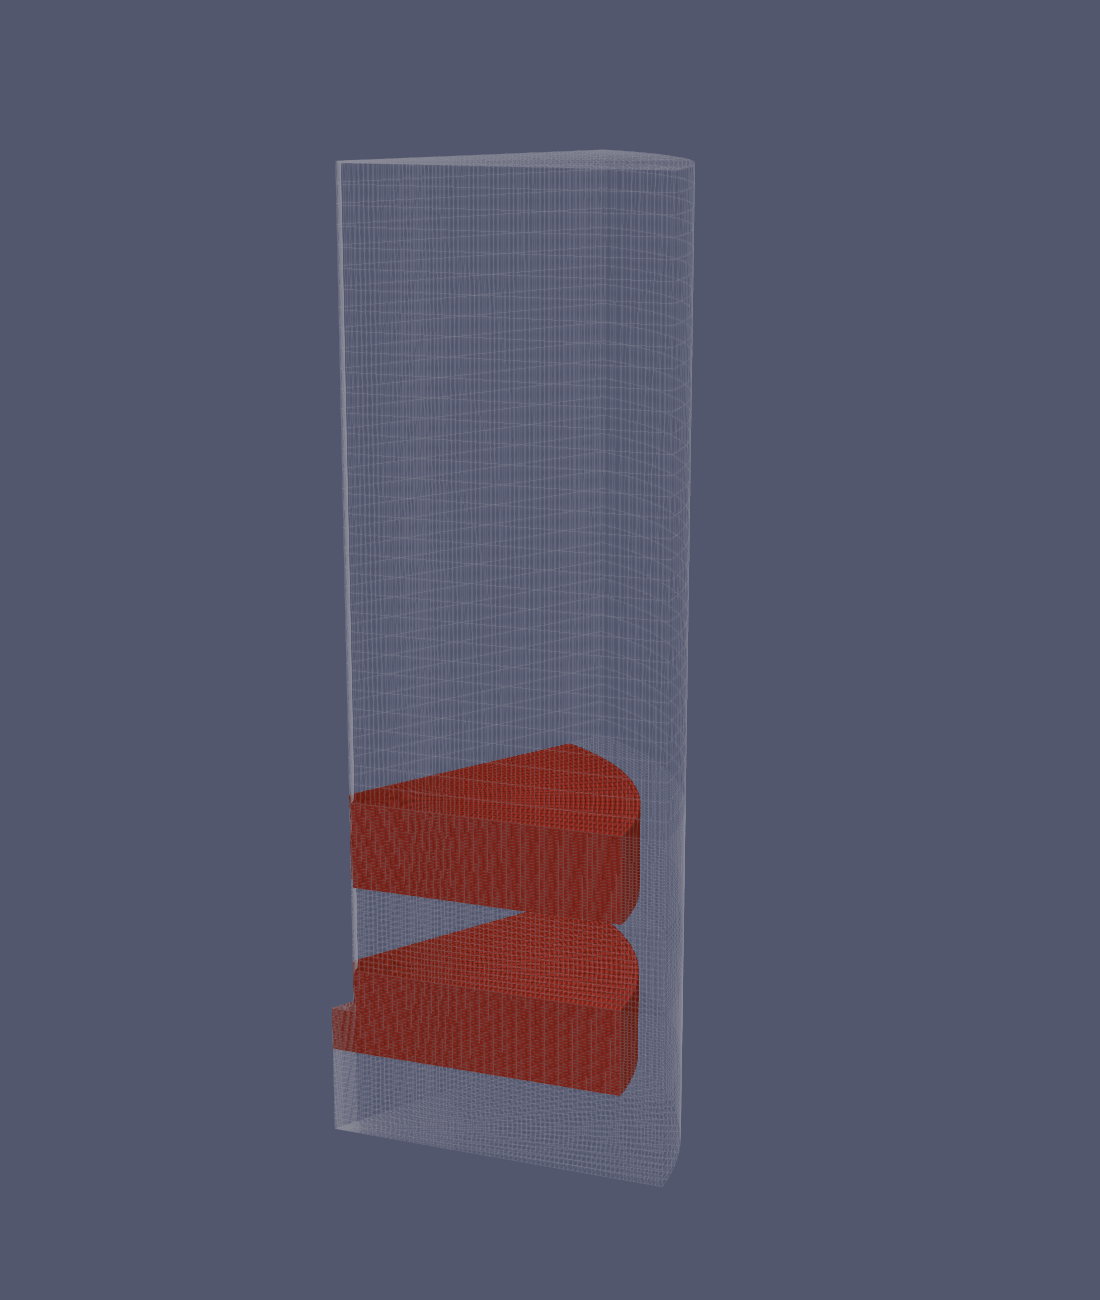
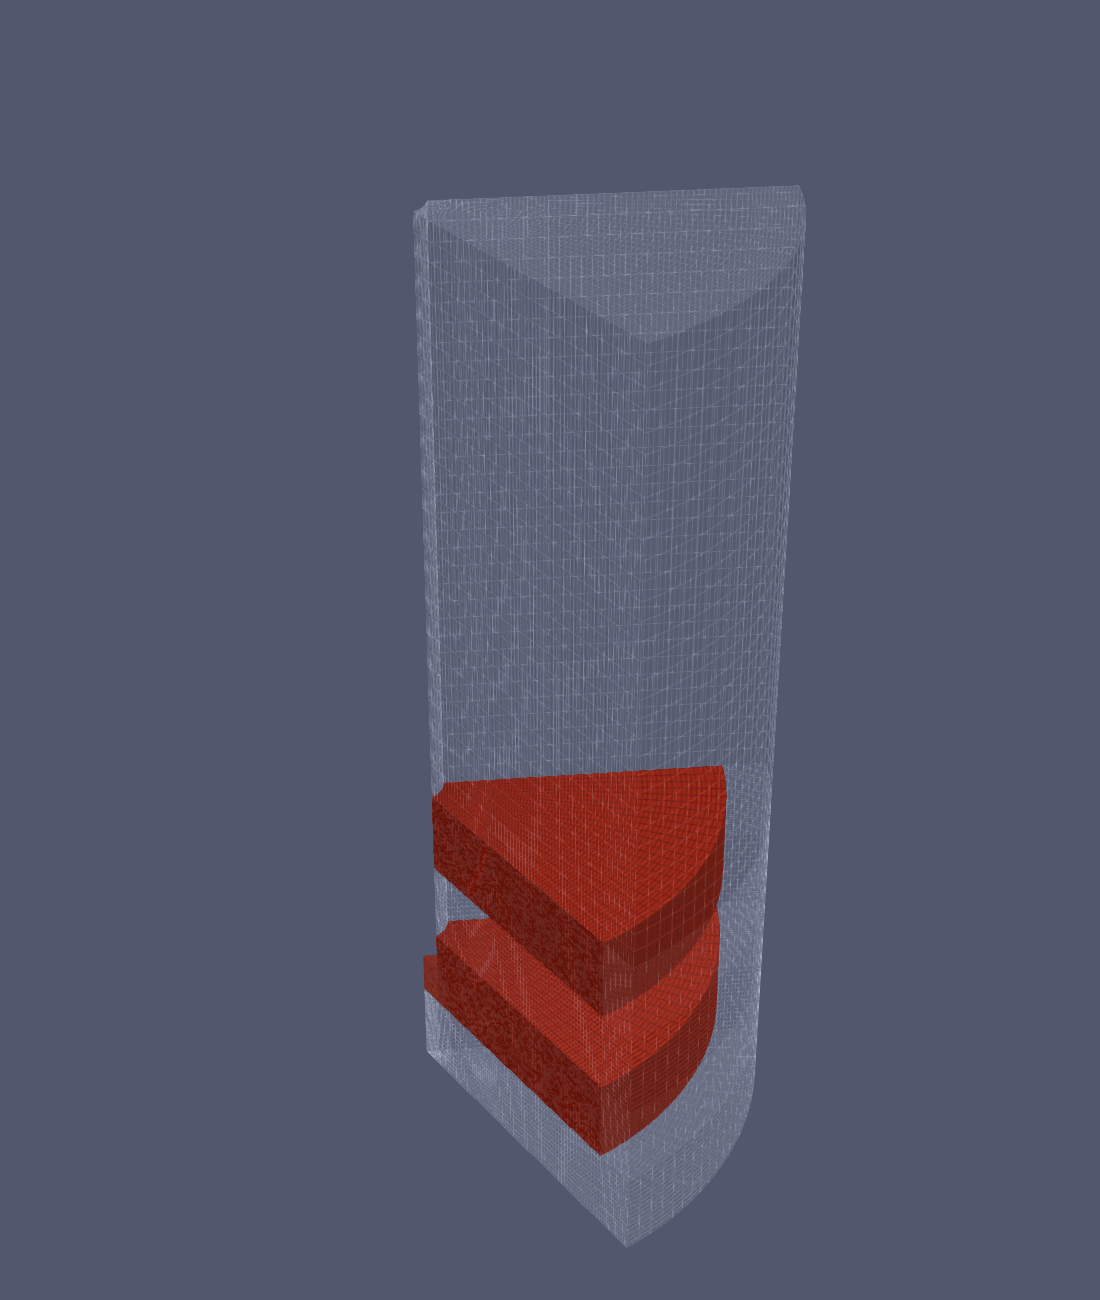
Add mesh-deformation animation GIF to stirrer doc
Renders t=0.1-1.0 of the re-run master_curve_of13 case (fixed wing
zones) with pvpython: red wing patches plus the z=0.015 horizontal
mesh slice following the blade displacement. Also refreshes the stale
Aug 5 renders kept inside the data case img/ folders with the fixed-
mesh versions.

Changed region(s): [[0.2782, 0.1846, 0.7109, 0.9538], [0.3091, 0.0923, 0.7418, 0.2769], [0.6182, 0.4615, 0.6491, 0.4923]]

diff --git a/docs/Track3/slides.md b/docs/Track3/slides.md
@@ -1634,6 +1634,13 @@ checkMesh -latestTime > log.checkMesh 2>&1
 
 - 羽根表面の変位に合わせて、周囲のメッシュも破綻せず滑らかに追従変形していることを確認する。
 
+t=0.1〜1の変形過程をアニメーションにすると以下のようになる（赤: 羽根パッチ、グレー: 羽根中央高さ z=0.015 の水平断面メッシュ）。羽根がy方向へ曲線状に変位し、周囲のメッシュが滑らかに追従している。
+
+
+---
+
+![羽根の変位にメッシュが追従変形するアニメーション](img/002_stirrer/ani_deform.gif)
+
 ---
 
 # 003 Heatsink: SALOMEでヒートシンクの熱流体・固体連成メッシュを作る

diff --git a/docs/Track3/002_stirrer.md b/docs/Track3/002_stirrer.md
@@ -547,3 +547,7 @@ checkMesh -latestTime > log.checkMesh 2>&1
 ![羽根の変位に追従して変形したメッシュ（t=1）](img/002_stirrer/deformed_result.png)
 
 - 羽根表面の変位に合わせて、周囲のメッシュも破綻せず滑らかに追従変形していることを確認する。
+
+t=0.1〜1の変形過程をアニメーションにすると以下のようになる（赤: 羽根パッチ、グレー: 羽根中央高さ z=0.015 の水平断面メッシュ）。羽根がy方向へ曲線状に変位し、周囲のメッシュが滑らかに追従している。
+
+![羽根の変位にメッシュが追従変形するアニメーション](img/002_stirrer/ani_deform.gif)
